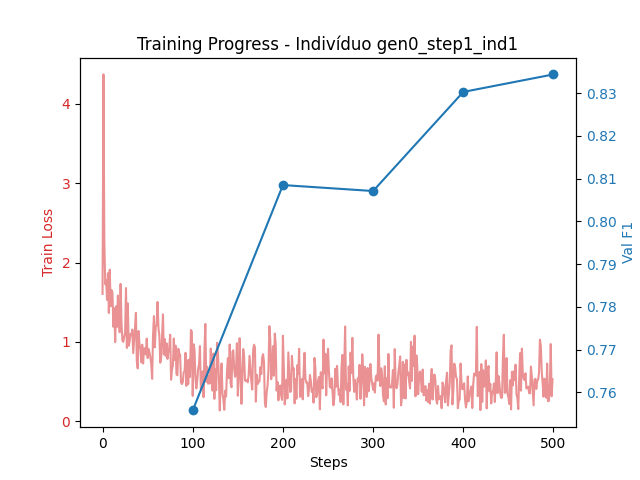
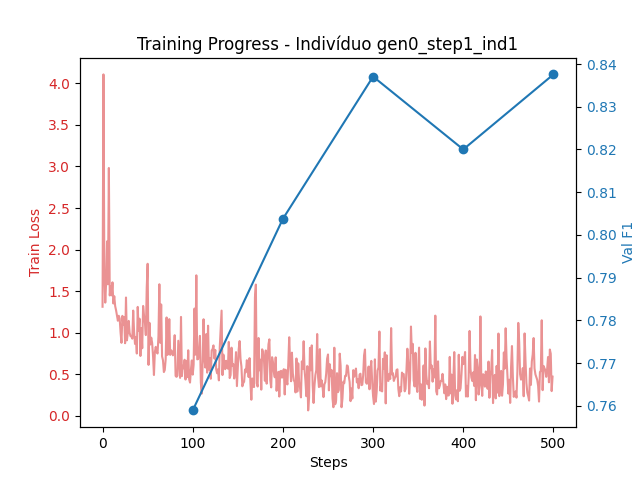
Plots of first generation losses

diff --git a/src/code/run_experiment_startover.py b/src/code/run_experiment_startover.py
@@ -1252,7 +1252,7 @@ DEVICE = torch.device("cuda" if torch.cuda.is_available() else "cpu")
 MAMBA, ATTN = 0, 1
 MIN_LAYERS, MAX_LAYERS = 4, 20
 NUM_CLASSES = 4
-MUTATION_RATE = 0.15
+MUTATION_RATE = 0.25
 POP_SIZE = 30
 GENERATIONS = 100
 ELITISM = 1
@@ -1618,7 +1618,7 @@ def plot_population_vs_best(data):
     # 1. Extrair todas as curvas de loss
     all_curves = [d['losses'] for d in data]
     # Garantir que todas têm o mesmo tamanho para a média (padding)
-    max_len = 782
+    max_len = STEPS_1
     padded = np.array([c + [c[-1]] * (max_len - len(c)) for c in all_curves])
     
     # 2. Calcular Média
@@ -1648,6 +1648,8 @@ def evolve(base_model, train_ds, val_ds, pop_size=30, generations=100, elitism=1
     history_logs = []
     gen0_data = []
     
+    gen_start_time = time.time()
+
     print(f"--- Generation 0: Initializing {pop_size} individuals ---")
     population = []
     for i in range(pop_size): #*2 for phd
@@ -1659,6 +1661,7 @@ def evolve(base_model, train_ds, val_ds, pop_size=30, generations=100, elitism=1
 
     fitness(population)
     population = sorted(population, key=lambda x: x['fitness'], reverse=True)
+    gen0_data = [{'losses': ind['losses'], 'f1': ind['stats']['f1']} for ind in population]
 
     
     # print("--- Generation 0: Refining survivors (Step 2) ---")
@@ -1671,6 +1674,8 @@ def evolve(base_model, train_ds, val_ds, pop_size=30, generations=100, elitism=1
     #     gen0_data.append({'losses': full_losses, 'f1': s['f1']})
     #     ind['weights'], ind['stats'] = w, s
     #     del ind['temp_losses']
+
+    gen_duration = (time.time() - gen_start_time) / 60
     
     # Log da Geração 0 (agora com treino completo!)
     for i, ind in enumerate(sorted(population, key=lambda x: x['fitness'], reverse=True)):
@@ -1678,8 +1683,11 @@ def evolve(base_model, train_ds, val_ds, pop_size=30, generations=100, elitism=1
             'generation': 0, 'rank': i, 'fitness': ind['fitness'],
             'f1': ind['stats']['f1'], 'latency': ind['stats']['latency'],
             'params': ind['stats']['params'], 'depth': ind['stats']['depth'],
-            'genotype': str(ind['genotype'])
+            'gen_time_min': gen_duration, 'genotype': str(ind['genotype'])
         })
+
+    pd.DataFrame(history_logs).to_csv("agnews_evolution_results_startover_without_phd_500.csv", index=False)
+    print(f"Gen 0 Best: F1 {population[0]['stats']['f1']:.4f}")
 
     # --- GERAR O GRÁFICO FINAL DA POPULAÇÃO ---
     plot_population_vs_best(gen0_data)